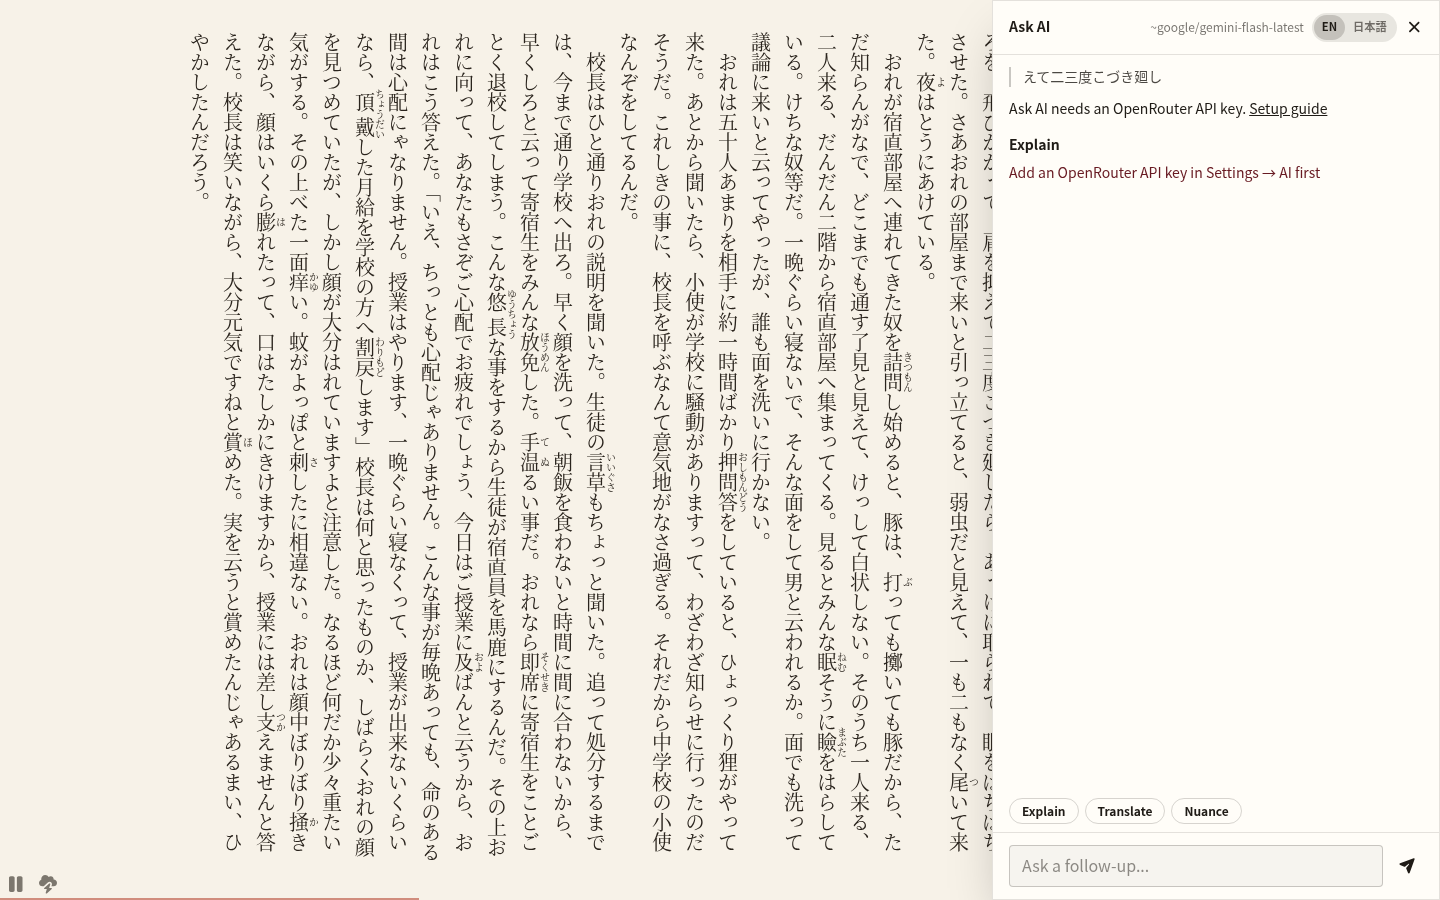
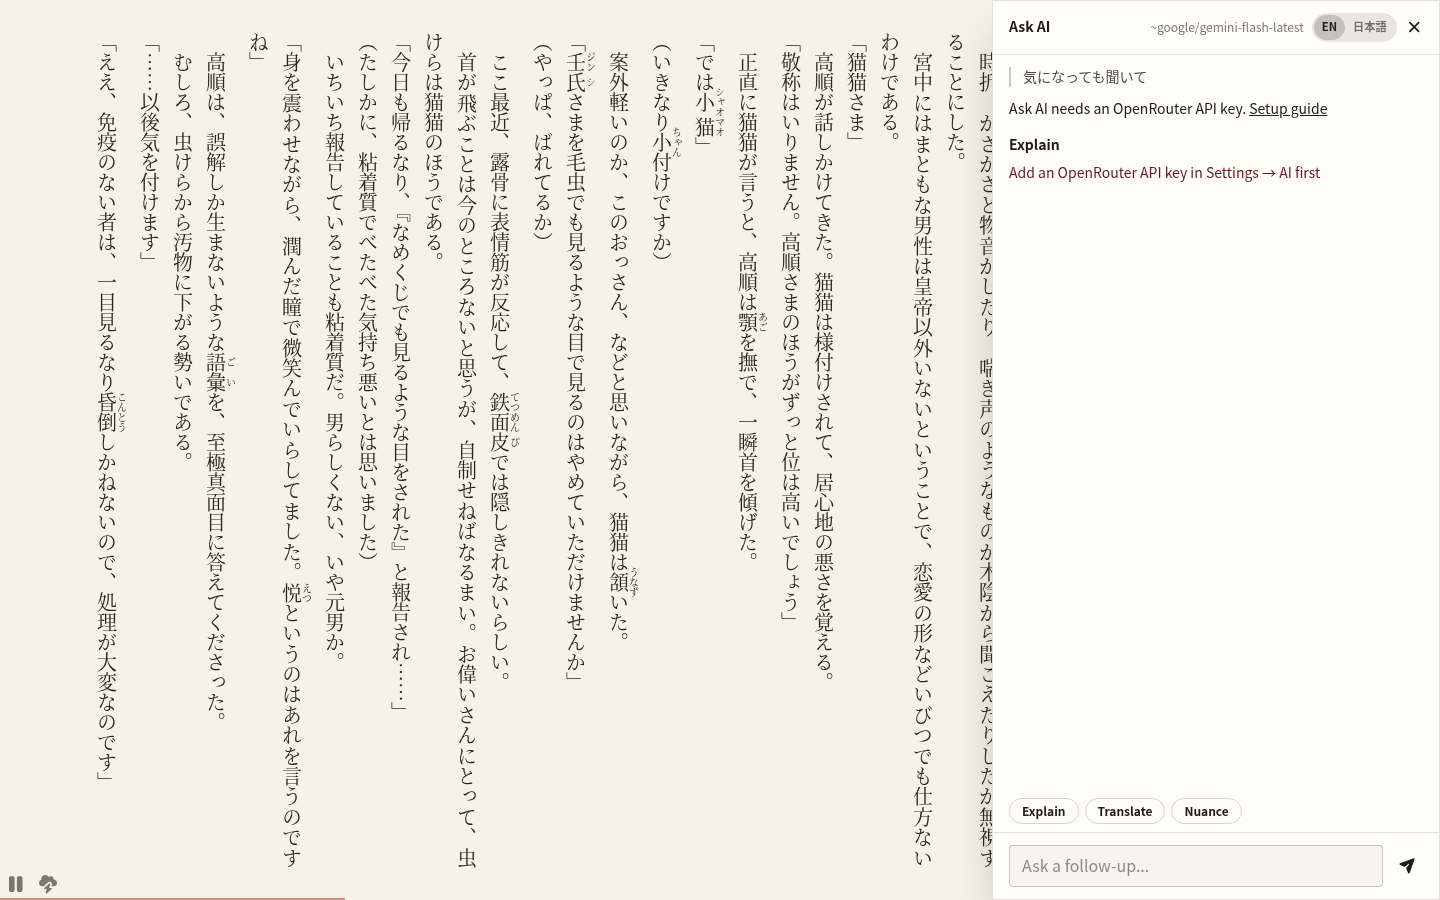
docs: README screenshots from a real library
Light novels, novels, manga and a visual novel instead of the Aozora
test books, and a manga reader shot.

diff --git a/README.md b/README.md
@@ -7,13 +7,13 @@ it at a Calibre library and everyone in the house reads from it, with accounts,
 synced progress and highlights, and tools for language learners. The reader
 itself, and its Yomitan support, are upstream's.
 
-![Reading 坊っちゃん in vertical text, with a highlight and the selection toolbar](assets/readme/screenshots/reader.png)
+![Reading 薬屋のひとりごと in vertical text, with a highlight and the selection toolbar](assets/readme/screenshots/reader.png)
 
 Books, manga and ONScripter visual novels from one library; highlights, search,
 audiobooks, AI helpers and Anki mining in the reader; difficulty estimates and
 reading statistics for learners. See [Features](#features).
 
-<sub>Books shown: public-domain texts from [青空文庫](https://www.aozora.gr.jp/), with the covers Calibre generates.</sub>
+<sub>Screenshots show books from the maintainer's own library; the titles belong to their publishers.</sub>
 
 ## Setup
 
@@ -180,7 +180,7 @@ screens.
 
 | Search                                                              | Highlights                                                                  |
 | ------------------------------------------------------------------- | --------------------------------------------------------------------------- |
-| ![Search results for 赤シャツ](assets/readme/screenshots/search.png) | ![The reader companion with highlights](assets/readme/screenshots/companion.png) |
+| ![Search results for 猫猫](assets/readme/screenshots/search.png) | ![The reader companion with highlights](assets/readme/screenshots/companion.png) |
 
 Desktop keys (physical positions, the same on any layout): <kbd>PageDown</kbd>/<kbd>PageUp</kbd>
 pages, <kbd>n</kbd>/<kbd>m</kbd> chapters, <kbd>b</kbd>/<kbd>r</kbd> bookmark and return,
@@ -217,6 +217,8 @@ browser:
   devices and big games can be kept offline. Games for other engines can often
   be converted with
   [conscripter-convert](https://github.com/blankiekun/conscripter-convert).
+
+![MONSTER in the manga reader](assets/readme/screenshots/manga.png)
 
 ### For learners
 

diff --git a/CHANGELOG.md b/CHANGELOG.md
@@ -9,7 +9,7 @@ anything a reader or a server operator would notice.
 ### Documentation
 
 - The README has a Features section with new screenshots (Home, Store, a book's page,
-  search, highlights, Ask AI, themes, the admin panel) instead of the reader controls
+  search, highlights, Ask AI, manga, themes, the admin panel) instead of the reader controls
   reference, which stays in upstream's README.
 - ARCHITECTURE, CONTRIBUTING, CONFIGURATION and QA brought up to date (plugins,
   Audiobookshelf, Anki, Whisper, offline reading, the book page, visual novel settings).
